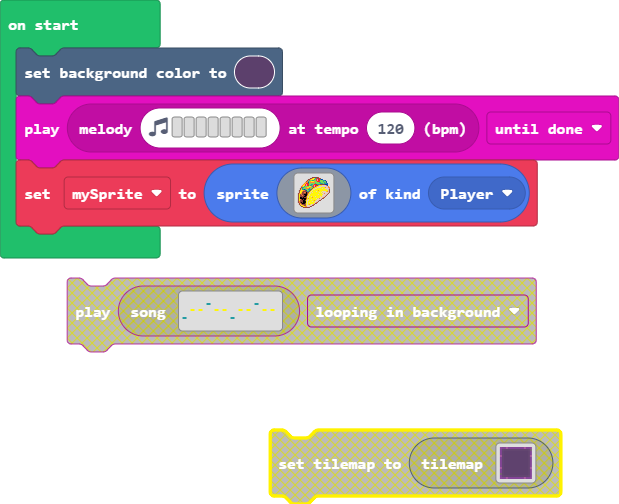
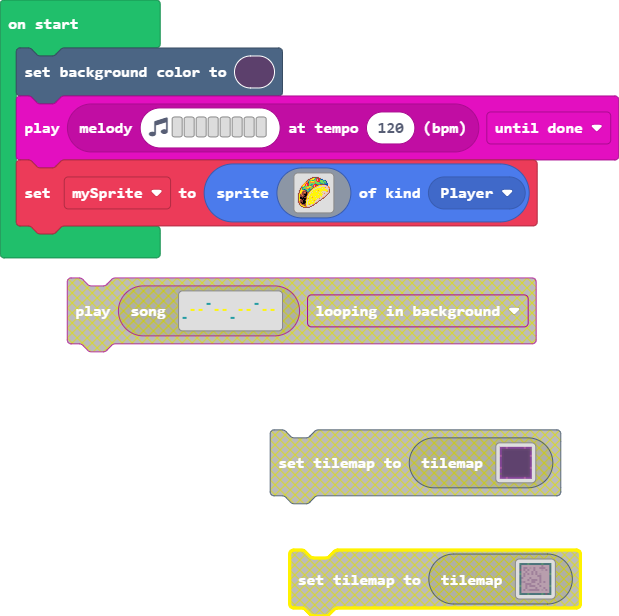
Update main.blocks, tilemap.g.jres, tilemap.g.ts

diff --git a/tilemap.g.ts b/tilemap.g.ts
@@ -5,6 +5,25 @@ namespace myTiles {
 
     helpers._registerFactory("tilemap", function(name: string) {
         switch(helpers.stringTrim(name)) {
+            case "level2":
+            case "level2":return tiles.createTilemap(hex`1000100000000000000000000000000000000000000000000000000000000000000000000000000000000000000000000000000000000000000000000000000000000000000000000000000000000000000000000000000000000000000000000000000000000000000000000000000000000000000000000000000000000000000000000000000000000000000000000000000000000000000000000000000000000000000000000000000000000000000000000000000000000000000000000000000000000000000000000000000000000000000000000000000000000000000000000000000000000000000000000000000000000000000000000000000000000000`, img`
+. . . . . . . . . . . . . . . . 
+. . . . . . . . . . . . . . . . 
+. . . . . . . . . . . . . . . . 
+. . . . . . . . . . . . . . . . 
+. . . . . . . . . . . . . . . . 
+. . . . . . . . . . . . . . . . 
+. . . . . . . . . . . . . . . . 
+. . . . . . . . . . . . . . . . 
+. . . . . . . . . . . . . . . . 
+. . . . . . . . . . . . . . . . 
+. . . . . . . . . . . . . . . . 
+. . . . . . . . . . . . . . . . 
+. . . . . . . . . . . . . . . . 
+. . . . . . . . . . . . . . . . 
+. . . . . . . . . . . . . . . . 
+. . . . . . . . . . . . . . . . 
+`, [myTiles.transparency16], TileScale.Sixteen);
             case "level1":
[1 lines of base64/hex data omitted]
 . . . . . . . . . . . . . . . . 
@@ -24,6 +43,44 @@ namespace myTiles {
 . . . . . . . . . . . . . . . . 
 . . . . . . . . . . . . . . . . 
 `, [myTiles.transparency16,sprites.dungeon.purpleOuterNorth1,sprites.dungeon.purpleOuterEast0,sprites.dungeon.purpleOuterSouth1,sprites.dungeon.purpleOuterWest1,sprites.dungeon.purpleOuterSouthEast,sprites.dungeon.purpleOuterNorthWest,sprites.dungeon.purpleOuterNorthEast,sprites.dungeon.purpleOuterSouthWest,sprites.dungeon.darkGroundCenter,sprites.dungeon.darkGroundNorth,sprites.dungeon.darkGroundSouth,sprites.dungeon.darkGroundWest,sprites.dungeon.darkGroundEast,sprites.dungeon.darkGroundSouthEast0,sprites.dungeon.darkGroundSouthWest0,sprites.dungeon.darkGroundNorthWest0,sprites.dungeon.darkGroundNorthEast0,sprites.dungeon.doorClosedEast,sprites.dungeon.doorClosedWest,sprites.dungeon.purpleOuterNorth2,sprites.dungeon.purpleOuterSouth2,sprites.dungeon.purpleOuterEast2,sprites.dungeon.purpleOuterWest2], TileScale.Sixteen);
+            case "level3":
+            case "level3":return tiles.createTilemap(hex`1000100000000000000000000000000000000000000000000000000000000000000000000000000000000000000000000000000000000000000000000000000000000000000000000000000000000000000000000000000000000000000000000000000000000000000000000000000000000000000000000000000000000000000000000000000000000000000000000000000000000000000000000000000000000000000000000000000000000000000000000000000000000000000000000000000000000000000000000000000000000000000000000000000000000000000000000000000000000000000000000000000000000000000000000000000000000000`, img`
+. . . . . . . . . . . . . . . . 
+. . . . . . . . . . . . . . . . 
+. . . . . . . . . . . . . . . . 
+. . . . . . . . . . . . . . . . 
+. . . . . . . . . . . . . . . . 
+. . . . . . . . . . . . . . . . 
+. . . . . . . . . . . . . . . . 
+. . . . . . . . . . . . . . . . 
+. . . . . . . . . . . . . . . . 
+. . . . . . . . . . . . . . . . 
+. . . . . . . . . . . . . . . . 
+. . . . . . . . . . . . . . . . 
+. . . . . . . . . . . . . . . . 
+. . . . . . . . . . . . . . . . 
+. . . . . . . . . . . . . . . . 
+. . . . . . . . . . . . . . . . 
+`, [myTiles.transparency16], TileScale.Sixteen);
+            case "level4":
[1 lines of base64/hex data omitted]
+. . . . . . . . . . . . . . . . 
+. . . . . . . . . . . . . . . . 
+. . . . . . . . . . . . . . . . 
+. . . . . . . . . . . . . . . . 
+. . . . . . . . . . . . . . . . 
+. . . . . . . . . . . . . . . . 
+. . . . . . . . . . . . . . . . 
+. . . . . . . . . . . . . . . . 
+. . . . . . . . . . . . . . . . 
+. . . . . . . . . . . . . . . . 
+. . . . . . . . . . . . . . . . 
+. . . . . . . . . . . . . . . . 
+. . . . . . . . . . . . . . . . 
+. . . . . . . . . . . . . . . . 
+. . . . . . . . . . . . . . . . 
+. . . . . . . . . . . . . . . . 
+`, [myTiles.transparency16,sprites.dungeon.greenOuterSouth1,sprites.dungeon.greenOuterEast0,sprites.dungeon.greenOuterWest1,sprites.dungeon.greenOuterWest0,sprites.dungeon.greenOuterNorth0,sprites.dungeon.greenOuterNorthWest,sprites.dungeon.greenOuterNorthEast,sprites.dungeon.greenOuterSouthWest,sprites.dungeon.greenOuterSouthEast,sprites.dungeon.doorClosedWest,sprites.dungeon.doorClosedSouth,sprites.dungeon.floorLight3,sprites.dungeon.floorMixed,sprites.dungeon.floorDark4,sprites.dungeon.greenOuterNorth2,sprites.dungeon.greenOuterSouth2,sprites.dungeon.greenOuterEast2,sprites.dungeon.greenOuterWest2,sprites.dungeon.greenOuterSouth0,sprites.dungeon.greenOuterEast1,sprites.dungeon.greenOuterNorth1], TileScale.Sixteen);
         }
         return null;
     })
